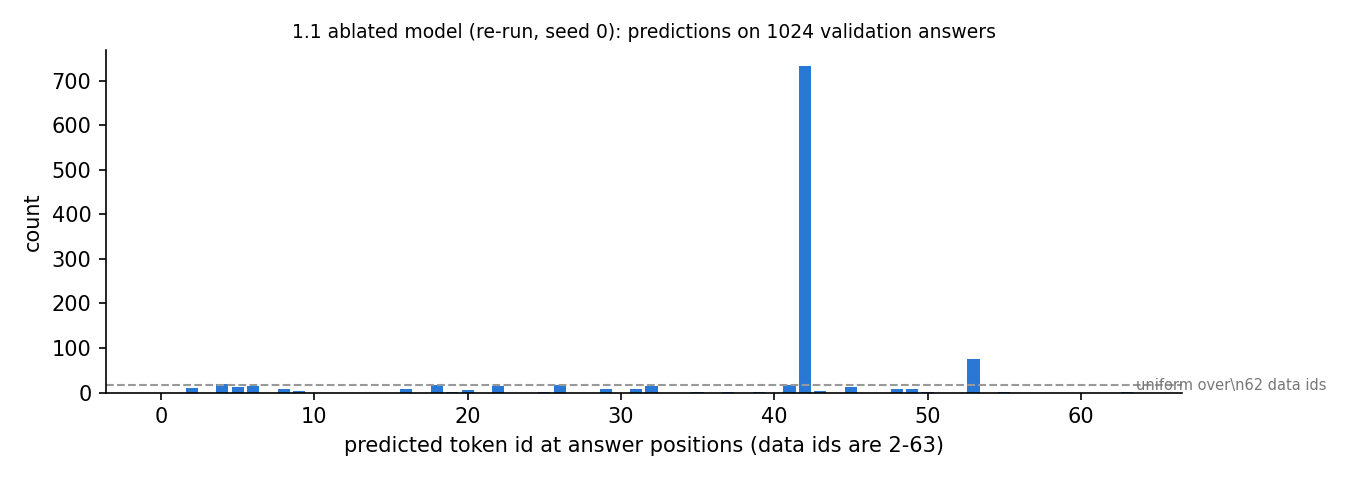
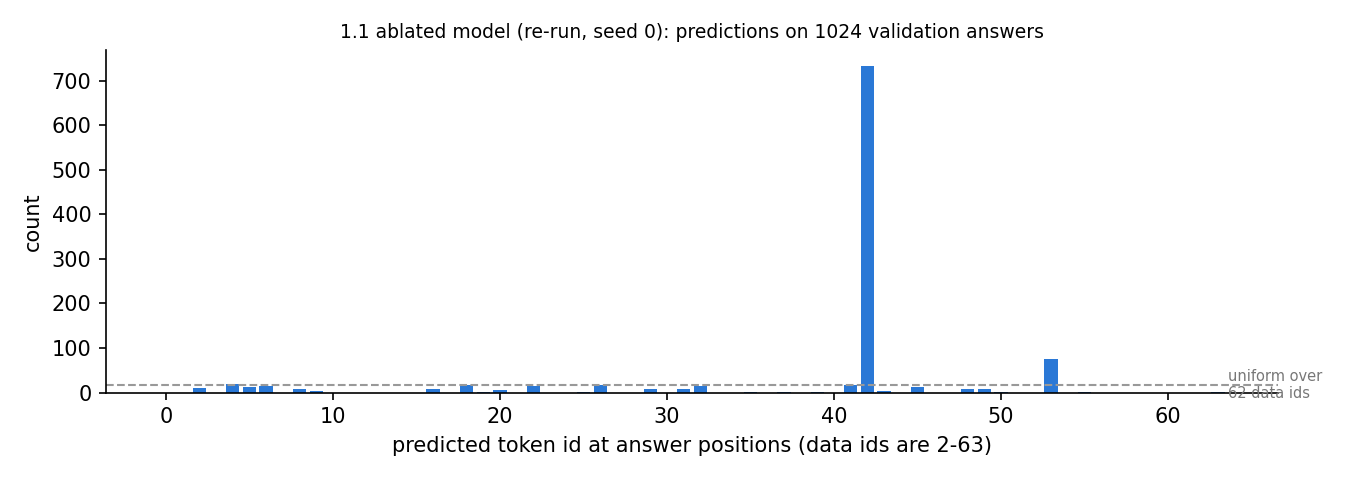
Phase 1.1b report: fix literal \n in histogram label

diff --git a/scripts/phase1_1b_report.py b/scripts/phase1_1b_report.py
@@ -49,7 +49,7 @@ def plot_hist(h: dict, path: Path):
     fig, ax = plt.subplots(figsize=(9, 3.2))
     ax.bar(ids, [pred.get(i, 0) for i in ids], width=0.8, color="#2a78d6")
     ax.axhline(n / 62, color="#999", lw=1, ls="--")
-    ax.text(63.6, n / 62, "uniform over\\n62 data ids", fontsize=7, color="#777", va="center")
+    ax.text(63.6, n / 62, "uniform over\n62 data ids", fontsize=7, color="#777", va="center")
     ax.set_xlabel("predicted token id at answer positions (data ids are 2-63)")
     ax.set_ylabel("count")
     ax.set_title(f"1.1 ablated model (re-run, seed 0): predictions on {n} validation answers",
